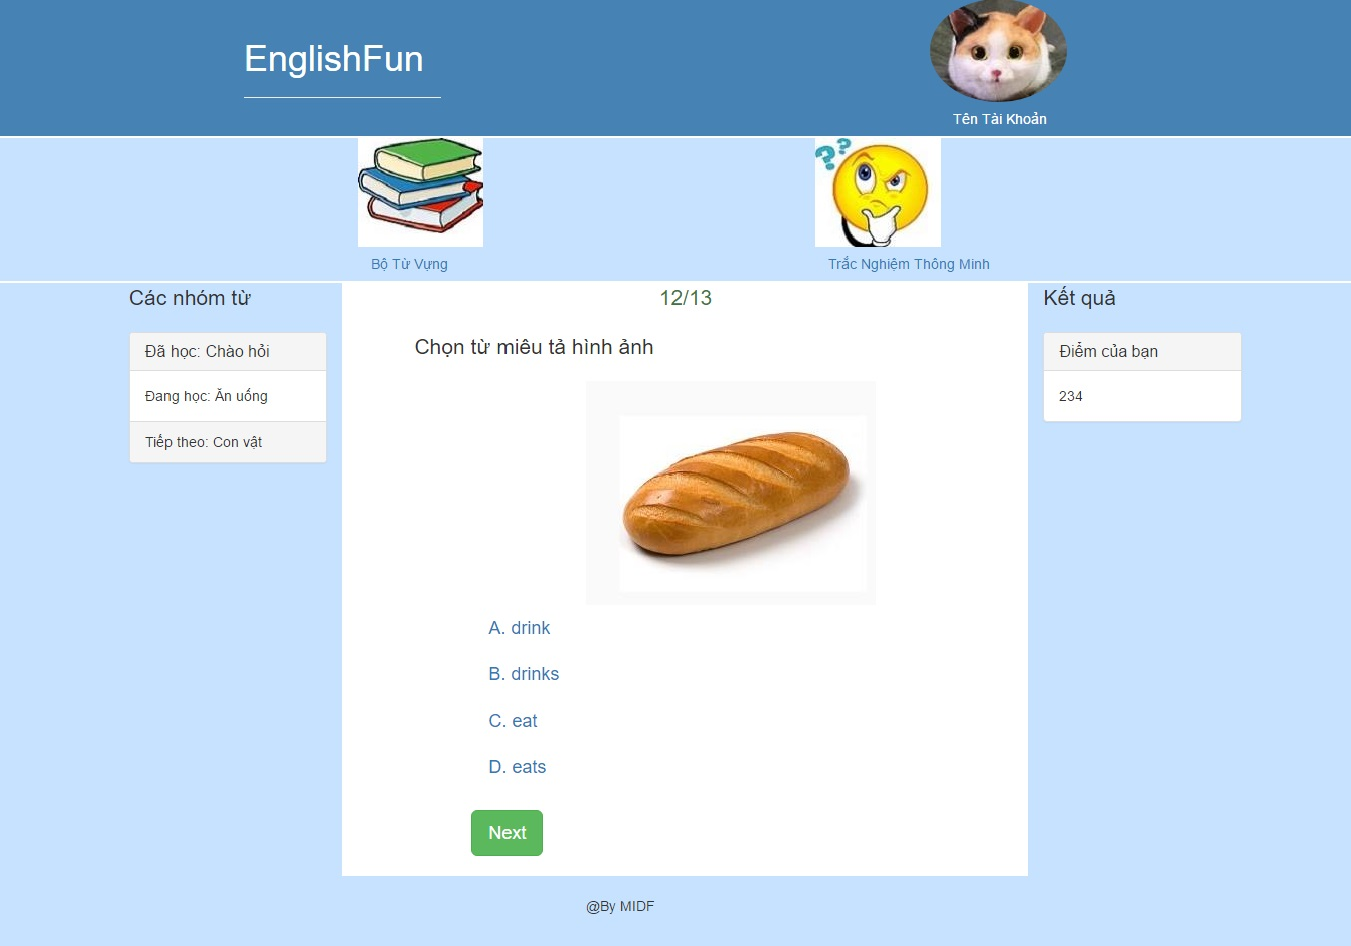
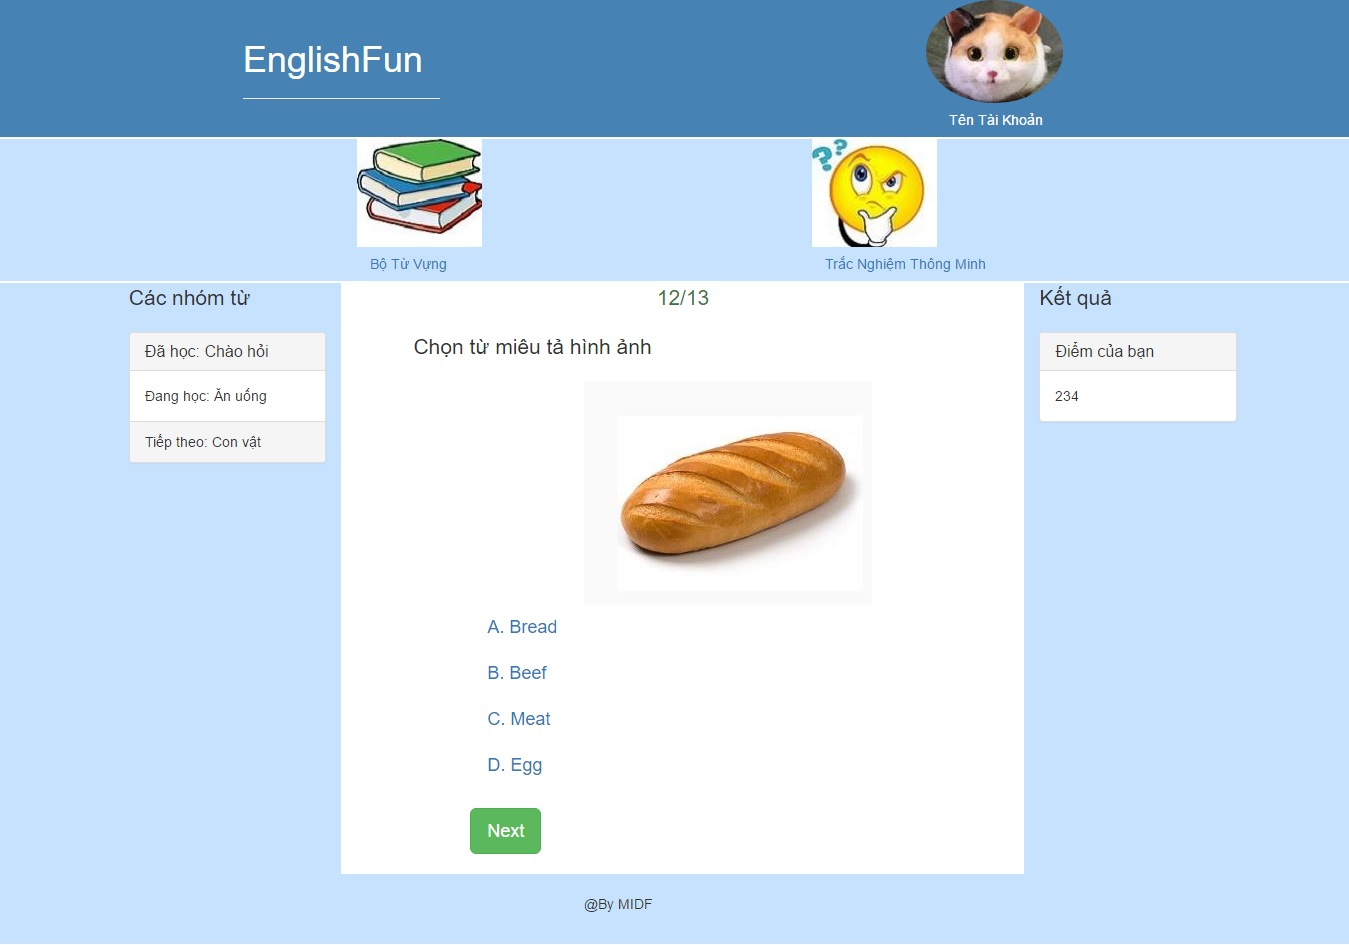
nop bt

diff --git a/3.html b/3.html
@@ -108,10 +108,10 @@
 				<div class="col-md-2">
 				</div>
 				<div class="col-md-10">
-					 <a href="#" class="btn btn-lg" type="button">A. drink</a><br>
-					 <a href="#" class="btn btn-lg" type="button">B. drinks</a><br>
-					 <a href="#" class="btn btn-lg" type="button">C. eat</a><br>
-					 <a href="#" class="btn btn-lg" type="button">D. eats</a><br> 
+					 <a href="#" class="btn btn-lg" type="button">A. Bread</a><br>
+					 <a href="#" class="btn btn-lg" type="button">B. Beef</a><br>
+					 <a href="#" class="btn btn-lg" type="button">C. Meat</a><br>
+					 <a href="#" class="btn btn-lg" type="button">D. Egg</a><br> 
 					 <br>
 					<button type="button" class="btn btn-success btn-lg">
 								Next 
